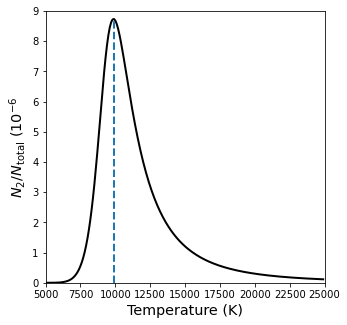
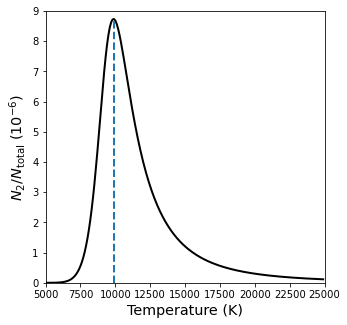
update Chapter 8

Changed region(s): [[0.0288, 0.2769, 0.0865, 0.6154]]

diff --git a/docs/Chapter_8/classification-of-stellar-spectra.html b/docs/Chapter_8/classification-of-stellar-spectra.html
@@ -798,7 +798,7 @@ The fraction of gas particles between 20-25 km/s is 0.128 or 12.8%.
 <span class="n">ax</span><span class="o">.</span><span class="n">set_ylim</span><span class="p">(</span><span class="mi">0</span><span class="p">,</span><span class="mi">9</span><span class="p">)</span>
 
 <span class="n">ax</span><span class="o">.</span><span class="n">set_xlabel</span><span class="p">(</span><span class="s2">&quot;Temperature (K)&quot;</span><span class="p">,</span><span class="n">fontsize</span><span class="o">=</span><span class="n">fs</span><span class="p">)</span>
-<span class="n">ax</span><span class="o">.</span><span class="n">set_ylabel</span><span class="p">(</span><span class="s2">&quot;$N_2/N_{</span><span class="se">\\</span><span class="s2">rm total}$ ($10^{-6}$&quot;</span><span class="p">,</span><span class="n">fontsize</span><span class="o">=</span><span class="n">fs</span><span class="p">);</span>
+<span class="n">ax</span><span class="o">.</span><span class="n">set_ylabel</span><span class="p">(</span><span class="s2">&quot;$N_2/N_{</span><span class="se">\\</span><span class="s2">rm total}$ ($10^{-6}$)&quot;</span><span class="p">,</span><span class="n">fontsize</span><span class="o">=</span><span class="n">fs</span><span class="p">);</span>
 </pre></div>
 </div>
 </div>
